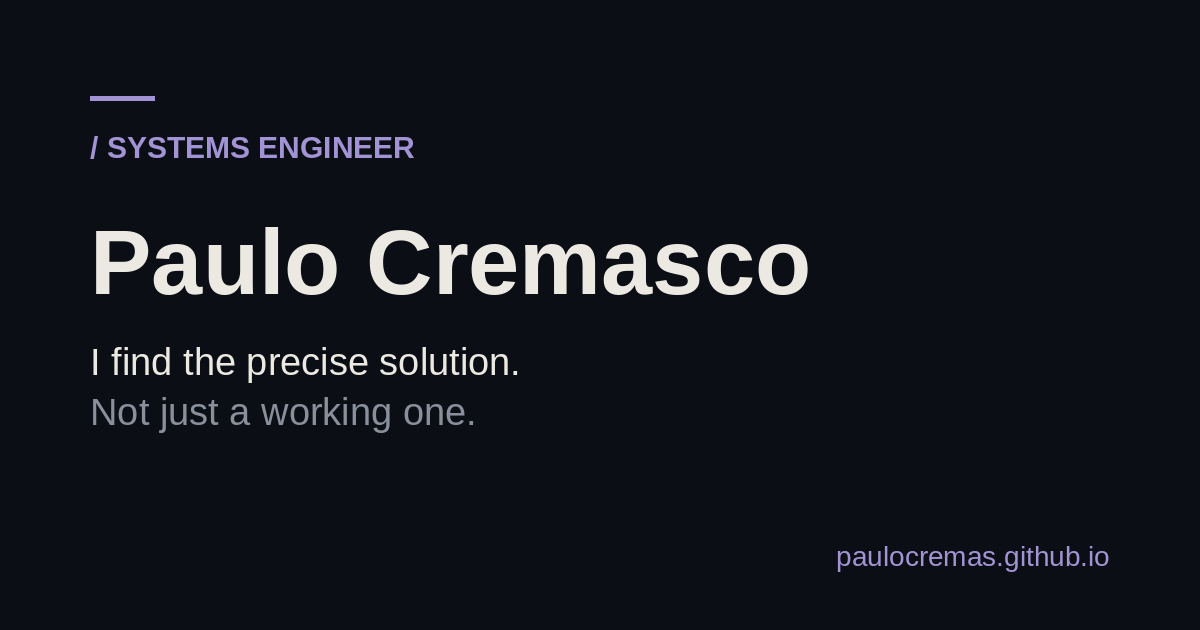
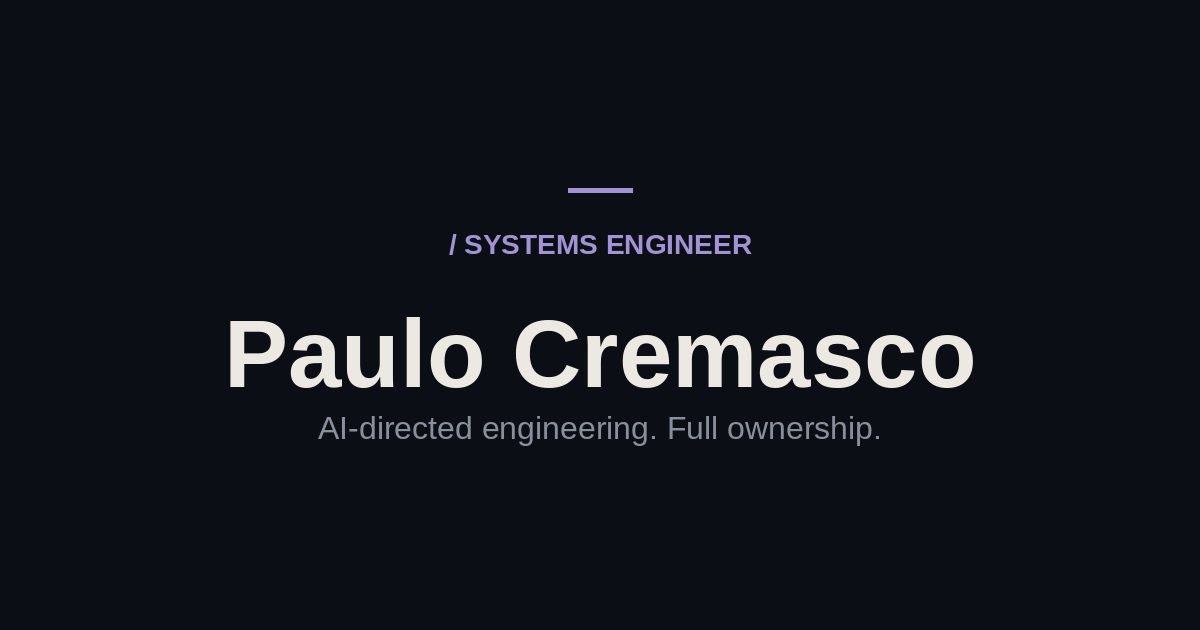
Recenter OG image to survive a square center-crop; drop LinkedIn from contact, point GitHub contact link to personal profile
The first OG image spread text edge to edge, so any center-crop
thumbnail (seen live on a small preview) cut off the name and URL.
Recentered everything into a safe zone and cut it to one tagline.

diff --git a/index.html b/index.html
@@ -1377,13 +1377,9 @@
           <span class="contact-label"><svg class="contact-icon icon-gmail" viewBox="0 0 24 24" aria-hidden="true"><path d="M24 5.457v13.909c0 .904-.732 1.636-1.636 1.636h-3.819V11.73L12 16.64l-6.545-4.91v9.273H1.636A1.636 1.636 0 0 1 0 19.366V5.457c0-2.023 2.309-3.178 3.927-1.964L5.455 4.64 12 9.548l6.545-4.91 1.528-1.145C21.69 2.28 24 3.434 24 5.457z"/></svg>Email</span>
           <span class="contact-value">cremascopaulo@gmail.com</span>
         </a>
-        <a class="contact-link" href="https://www.linkedin.com/in/pivapaulo/" target="_blank" rel="noopener">
-          <span class="contact-label"><svg class="contact-icon icon-linkedin" viewBox="0 0 24 24" aria-hidden="true"><path d="M20.447 20.452h-3.554v-5.569c0-1.328-.027-3.037-1.852-3.037-1.853 0-2.136 1.445-2.136 2.939v5.667H9.351V9h3.414v1.561h.046c.477-.9 1.637-1.85 3.37-1.85 3.601 0 4.267 2.37 4.267 5.455v6.286zM5.337 7.433c-1.144 0-2.063-.926-2.063-2.065 0-1.138.92-2.063 2.063-2.063 1.14 0 2.064.925 2.064 2.063 0 1.139-.925 2.065-2.064 2.065zm1.782 13.019H3.555V9h3.564v11.452zM22.225 0H1.771C.792 0 0 .774 0 1.729v20.542C0 23.227.792 24 1.771 24h20.451C23.2 24 24 23.227 24 22.271V1.729C24 .774 23.2 0 22.222 0h.003z"/></svg>LinkedIn</span>
-          <span class="contact-value">in/pivapaulo</span>
-        </a>
-        <a class="contact-link" href="https://github.com/paulocremas-showcase" target="_blank" rel="noopener">
+        <a class="contact-link" href="https://github.com/paulocremas" target="_blank" rel="noopener">
           <span class="contact-label"><svg class="contact-icon icon-github" viewBox="0 0 24 24" aria-hidden="true"><path d="M12 .297c-6.63 0-12 5.373-12 12 0 5.303 3.438 9.8 8.205 11.385.6.113.82-.258.82-.577 0-.285-.01-1.04-.015-2.04-3.338.724-4.042-1.61-4.042-1.61C4.422 18.07 3.633 17.7 3.633 17.7c-1.087-.744.084-.729.084-.729 1.205.084 1.838 1.236 1.838 1.236 1.07 1.835 2.809 1.305 3.495.998.108-.776.417-1.305.76-1.605-2.665-.3-5.466-1.332-5.466-5.93 0-1.31.465-2.38 1.235-3.22-.135-.303-.54-1.523.105-3.176 0 0 1.005-.322 3.3 1.23.96-.267 1.98-.399 3-.405 1.02.006 2.04.138 3 .405 2.28-1.552 3.285-1.23 3.285-1.23.645 1.653.24 2.873.12 3.176.765.84 1.23 1.91 1.23 3.22 0 4.61-2.805 5.625-5.475 5.92.42.36.81 1.096.81 2.22 0 1.606-.015 2.896-.015 3.286 0 .315.21.69.825.57C20.565 22.092 24 17.592 24 12.297c0-6.627-5.373-12-12-12"/></svg>GitHub</span>
-          <span class="contact-value">paulocremas-showcase</span>
+          <span class="contact-value">paulocremas</span>
         </a>
         <a class="contact-link" href="https://www.upwork.com/freelancers/~01d1a5305d016c8bd4?viewMode=1" target="_blank" rel="noopener">
           <span class="contact-label"><svg class="contact-icon icon-upwork" viewBox="0 0 24 24" aria-hidden="true"><path d="M18.561 13.158c-1.102 0-2.135-.467-3.074-1.227l.228-1.076.008-.042c.207-1.143.849-3.06 2.839-3.06 1.492 0 2.703 1.212 2.703 2.703-.001 1.489-1.212 2.702-2.704 2.702zm0-8.14c-2.539 0-4.51 1.649-5.31 4.366-1.22-1.834-2.148-4.036-2.687-5.892H7.828v7.112c-.002 1.406-1.141 2.546-2.547 2.548-1.405-.002-2.543-1.143-2.545-2.548V3.492H0v7.112c0 2.914 2.37 5.303 5.281 5.303 2.913 0 5.283-2.389 5.283-5.303v-1.19c.529 1.107 1.182 2.229 1.974 3.221l-1.673 7.873h2.797l1.213-5.71c1.063.679 2.285 1.109 3.686 1.109 3 0 5.439-2.452 5.439-5.45 0-3-2.439-5.439-5.439-5.439z"/></svg>Upwork</span>
